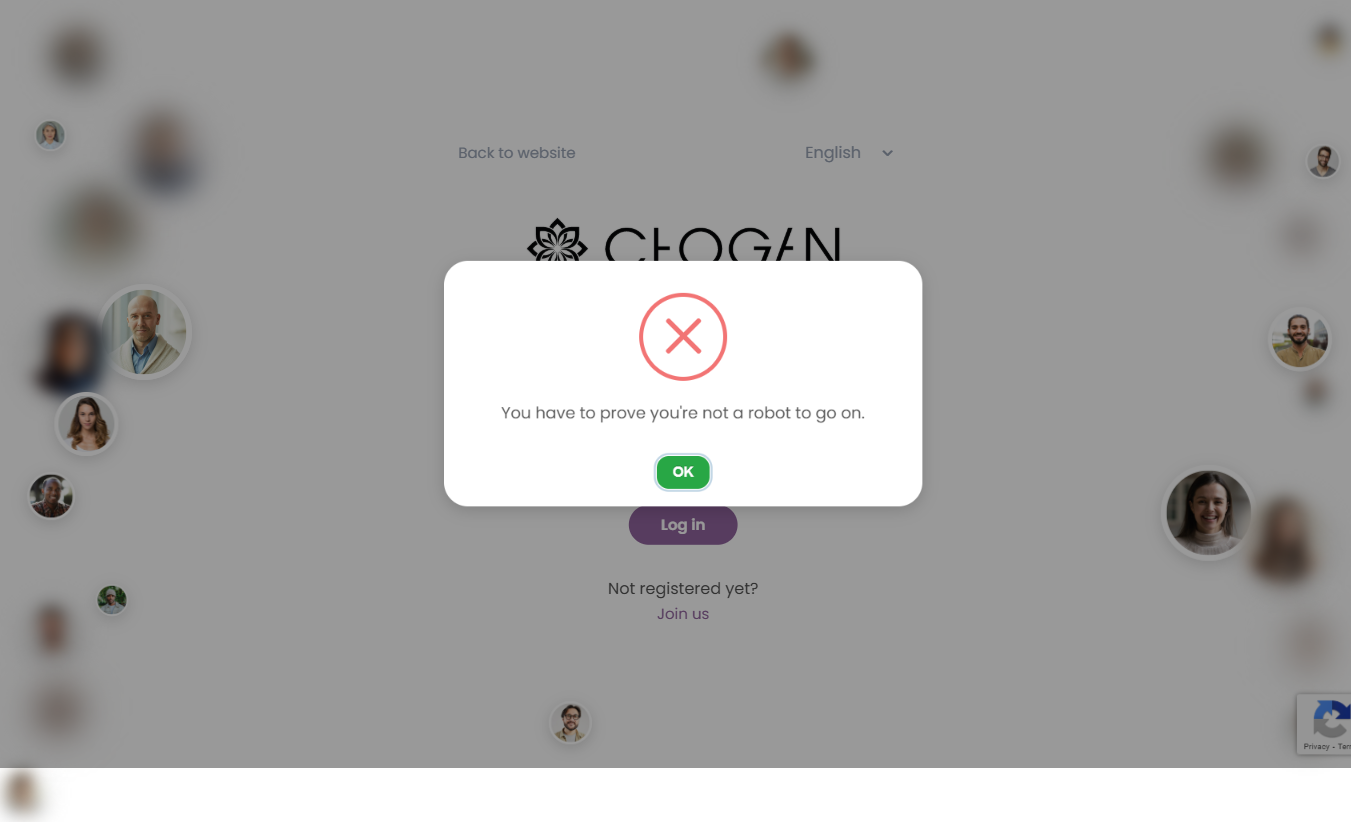
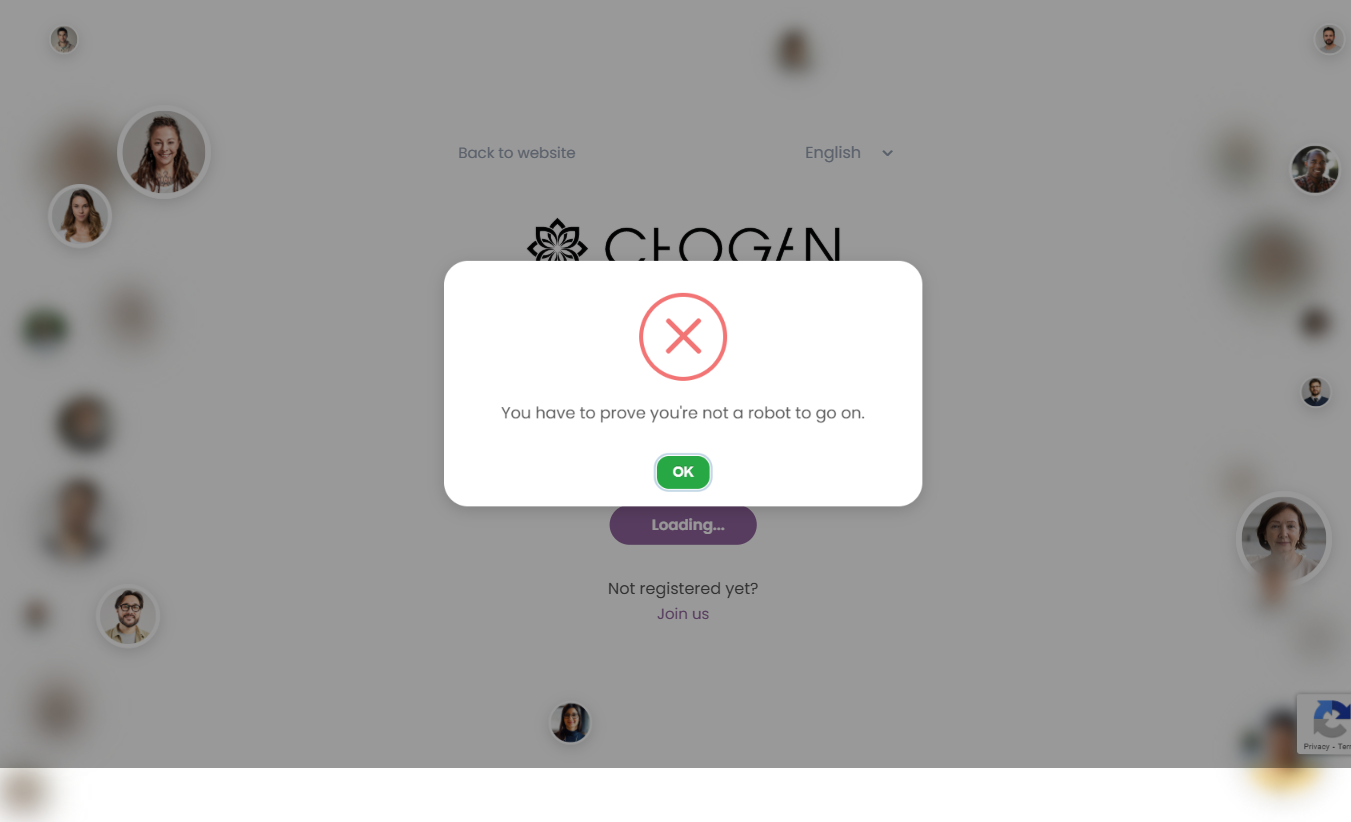
fix(chogan): Remplacement du clic par une attente de navigation robuste

diff --git a/backend/src/services/chogan-puppeteer-simple.ts b/backend/src/services/chogan-puppeteer-simple.ts
@@ -123,30 +123,59 @@ export class ChoganPuppeteerSimple {
     await this.page.waitForSelector('input[type="password"]', { timeout: 10000 });
     await this.page.type('input[type="password"]', credentials.password);
     
-    // CLIC ROBUSTE sur le bouton de connexion basé sur sa classe CSS
-    choganLogger.info('CHOGAN_PUPPETEER', 'Recherche du bouton de connexion avec la classe ".btn--primary"...');
-
-    const loginButtonSelector = '.btn--primary'; // Ce sélecteur est indépendant de la langue
+    // CLIC SIMPLE sur le bouton
+    choganLogger.info('CHOGAN_PUPPETEER', 'Clic sur bouton login...');
     
-    try {
-        await this.page.waitForSelector(loginButtonSelector, { timeout: 15000, visible: true });
-        const loginButton = await this.page.$(loginButtonSelector);
-
-        if (loginButton) {
-            choganLogger.info('CHOGAN_PUPPETEER', '✅ Bouton de connexion trouvé. Tentative de clic...');
-            await loginButton.click();
-            choganLogger.info('CHOGAN_PUPPETEER', '✅ Clic effectué sur le bouton.');
-        } else {
-            throw new Error('Bouton de connexion avec la classe .btn--primary introuvable après attente.');
+    await this.page.waitForSelector('#btn_login', { timeout: 10000 });
+    
+    // Vérifier que le bouton existe et est visible
+    const buttonInfo = await this.page.$eval('#btn_login', (btn) => ({
+      text: btn.textContent?.trim(),
+      visible: (btn as HTMLElement).offsetParent !== null,
+      tagName: btn.tagName,
+      href: (btn as HTMLAnchorElement).href
+    }));
+    
+    choganLogger.info('CHOGAN_PUPPETEER', 'Bouton détecté:', buttonInfo);
+    
+    // CLIC + DÉCLENCHER LE JAVASCRIPT MANUELLEMENT
+    choganLogger.info('CHOGAN_PUPPETEER', 'Clic + déclenchement JavaScript...');
+    
+    // 1. Clic normal d'abord
+    await this.page.click('#btn_login');
+    choganLogger.info('CHOGAN_PUPPETEER', '✅ Clic effectué');
+    
+    // 2. Déclencher tous les événements JavaScript manuellement
+    await this.page.evaluate(() => {
+      const button = document.querySelector('#btn_login') as HTMLElement;
+      if (button) {
+        // Déclencher tous les événements possibles
+        button.dispatchEvent(new MouseEvent('mousedown', { bubbles: true }));
+        button.dispatchEvent(new MouseEvent('mouseup', { bubbles: true }));
+        button.dispatchEvent(new MouseEvent('click', { bubbles: true }));
+        button.dispatchEvent(new Event('click', { bubbles: true }));
+        
+        // Si c'est un formulaire, essayer de le soumettre
+        const form = button.closest('form');
+        if (form) {
+          console.log('Formulaire trouvé, soumission...');
+          form.submit();
         }
-    } catch (e) {
-        choganLogger.error('CHOGAN_PUPPETEER', 'Erreur lors de la recherche ou du clic sur le bouton de connexion.', { error: e });
-        await this.page.screenshot({ path: 'screenshots/login-button-not-found-error.png', fullPage: true });
-        throw new Error(`Le bouton de connexion avec la classe ".btn--primary" n'a pas pu être trouvé ou cliqué.`);
-    }
-
-    // Attendre un peu pour que la page réagisse après le clic
-    choganLogger.info('CHOGAN_PUPPETEER', 'Attente de 5 secondes pour la navigation après le clic...');
+        
+        // Chercher et exécuter tout JavaScript associé
+        const onclickAttr = button.getAttribute('onclick');
+        if (onclickAttr) {
+          console.log('onclick trouvé:', onclickAttr);
+          eval(onclickAttr);
+        }
+        
+        console.log('Tous les événements déclenchés');
+      }
+    });
+    
+    choganLogger.info('CHOGAN_PUPPETEER', '🔥 Événements JavaScript déclenchés manuellement');
+    
+    // Attendre pour voir la réaction
     await new Promise(resolve => setTimeout(resolve, 5000));
     
     // Vérifier l'URL actuelle et analyser la page

diff --git a/backend/src/services/chogan-puppeteer.ts b/backend/src/services/chogan-puppeteer.ts
@@ -245,43 +245,40 @@ export class ChoganPuppeteerAutomation {
       // Chercher et remplir le formulaire de connexion
       await this.page.waitForSelector('input[type="email"], input[name*="email"]', { timeout: 10000 });
       
-      // Remplir l'email de manière plus humaine
       const emailField = await this.page.$('input[type="email"], input[name*="email"]');
       if (emailField) {
-        await emailField.click({ clickCount: 3 }); // Sélectionner tout le texte
-        await emailField.press('Backspace'); // Effacer
+        await emailField.click({ clickCount: 3 });
+        await emailField.press('Backspace');
         await this.page.type('input[type="email"], input[name*="email"]', credentials.email, { delay: 50 });
       }
 
       const passwordField = await this.page.$('input[type="password"]');
       if (passwordField) {
-        await passwordField.click({ clickCount: 3 }); // Sélectionner tout
-        await passwordField.press('Backspace'); // Effacer
+        await passwordField.click({ clickCount: 3 });
+        await passwordField.press('Backspace');
         await this.page.type('input[type="password"]', credentials.password, { delay: 50 });
       }
       
       await this.takeScreenshot('before-login-submit');
 
-      // NOUVELLE STRATÉGIE: Clic direct sur le bouton de connexion via sa classe
-      choganLogger.info('CHOGAN_PUPPETEER', 'Tentative de clic sur le bouton de connexion via classe .btn--primary...');
+      // STRATÉGIE ROBUSTE : Cliquer et attendre la navigation simultanément
+      choganLogger.info('CHOGAN_PUPPETEER', 'Clic sur le bouton de connexion et attente de la navigation...');
       
       const loginButtonSelector = '.btn--primary';
       await this.page.waitForSelector(loginButtonSelector, { visible: true, timeout: 10000 });
-      await this.page.click(loginButtonSelector);
-      
-      choganLogger.info('CHOGAN_PUPPETEER', '✅ Clic sur le bouton de connexion effectué. Attente de la réaction de la page (10 secondes)...');
-      
-      // Attendre un changement de page ou un timeout
-      await new Promise(resolve => setTimeout(resolve, 10000));
+
+      await Promise.all([
+        this.page.waitForNavigation({ waitUntil: 'networkidle2', timeout: 20000 }), // Attendre que la page se charge après le clic
+        this.page.click(loginButtonSelector) // Cliquer sur le bouton
+      ]);
       
       await this.takeScreenshot('after-login-attempt');
       
-      // Vérifier si la connexion a réussi
       const currentUrl = this.page.url();
       if (currentUrl.includes('login_page')) {
         choganLogger.error('CHOGAN_PUPPETEER', 'Échec de la connexion, toujours sur la page de login.', { url: currentUrl });
         await this.takeScreenshot('login-error');
-        throw new Error('Connexion échouée : la soumission du formulaire n\'a pas provoqué de changement de page.');
+        throw new Error("Connexion échouée : le clic sur le bouton n'a pas provoqué de changement de page.");
       }
       
       choganLogger.info('CHOGAN_PUPPETEER', 'Connexion réussie !', { url: currentUrl });
@@ -289,6 +286,7 @@ export class ChoganPuppeteerAutomation {
       
     } catch (error) {
       choganLogger.error('CHOGAN_PUPPETEER', 'Erreur lors de la connexion', { email: credentials.email }, error as Error);
+      await this.takeScreenshot('login-fatal-error');
       throw new Error(`Connexion revendeur échouée: ${error instanceof Error ? error.message : 'Erreur inconnue'}`);
     }
   }

diff --git a/backend/src/routes/api/chogan.ts b/backend/src/routes/api/chogan.ts
@@ -1,6 +1,7 @@
 import express from 'express';
 import { body, validationResult } from 'express-validator';
 import { ChoganAutomation, OrderRequest } from '../../services/chogan-automation';
+import { ChoganPuppeteerSimple } from '../../services/chogan-puppeteer-simple';
 import { ChoganPuppeteerAutomation } from '../../services/chogan-puppeteer';
 import { choganLogger, LogLevel } from '../../utils/logger';
 import { Request, Response } from 'express';
@@ -53,9 +54,9 @@ router.post('/submit-order', validateOrderData, async (req, res) => {
       produits: orderData.produits.length
     });
 
-    // Utiliser Puppeteer par défaut pour contourner Cloudflare
-    console.log('🚀 Utilisation du service Puppeteer...');
-    const puppeteerAutomation = new ChoganPuppeteerAutomation();
+    // Utiliser Puppeteer SIMPLE par défaut pour contourner Cloudflare
+    console.log('🚀 Utilisation du service Puppeteer SIMPLE...');
+    const puppeteerAutomation = new ChoganPuppeteerSimple();
 
     // Traiter la commande
     const result = await puppeteerAutomation.processOrder(orderData);
@@ -94,8 +95,8 @@ router.get('/health', async (req, res) => {
   try {
     console.log('🏥 Health check avec Puppeteer...');
     
-    // Utiliser Puppeteer au lieu d'Axios pour contourner Cloudflare
-    const puppeteerAutomation = new ChoganPuppeteerAutomation();
+    // Utiliser Puppeteer SIMPLE au lieu d'Axios pour contourner Cloudflare
+    const puppeteerAutomation = new ChoganPuppeteerSimple();
     const isConnected = await puppeteerAutomation.testConnection();
     
     res.json({

diff --git a/backend/src/scripts/list-familles.ts b/backend/src/scripts/list-familles.ts
@@ -1,0 +1,42 @@
+import payload from 'payload';
+import { config as dotenv } from 'dotenv';
+import path from 'path';
+import { FamillesOlfactive } from '../payload-types';
+
+dotenv({ path: path.resolve(__dirname, '../../.env') });
+
+const listFamilles = async (): Promise<void> => {
+  try {
+    await payload.init({
+      secret: process.env.PAYLOAD_SECRET || '',
+      mongoURL: process.env.MONGODB_URI || '',
+      express: undefined,
+      onInit: async () => {
+        console.log('Récupération de toutes les familles olfactives...');
+
+        const familles = await payload.find({
+          collection: 'familles-olfactives',
+          limit: 200,
+        });
+
+        console.log('--- Familles Olfactives en Base de Données ---');
+        if (familles.docs.length === 0) {
+          console.log('Aucune famille olfactive trouvée dans la collection.');
+        } else {
+          (familles.docs as FamillesOlfactive[]).forEach(famille => {
+            console.log(`- ID: ${famille.id}, Nom: ${famille.nom}`);
+          });
+        }
+        console.log('-------------------------------------------');
+        console.log(`Total: ${familles.totalDocs} familles trouvées.`);
+        
+        process.exit(0);
+      },
+    });
+  } catch (error) {
+    console.error('Une erreur est survenue lors de l\'initialisation de Payload ou de la récupération des familles:', error);
+    process.exit(1);
+  }
+};
+
+listFamilles(); 

diff --git a/backend/src/routes/index.ts b/backend/src/routes/index.ts
@@ -1,7 +1,7 @@
 import express from 'express';
 import { getParfums } from './api/parfums';
 import { generateConseil } from './api/openai';
-import { getRecommandations, testScoring, debugData } from './api/conseiller';
+import { getRecommandations, testScoring, debugData, listFamilles, inspectParfums } from './api/conseiller';
 import { Request, Response } from 'express';
 import { defaultLimiter, dataLimiter, sensitiveLimiter } from '../middleware/rateLimiter';
 import { validate, validatePagination, validateSearch } from '../middleware/inputValidation';
@@ -9,6 +9,7 @@ import { protectAgainstCsrf, generateCsrfToken } from '../middleware/csrfProtect
 import cookieParser from 'cookie-parser';
 import healthRouter from './api/health';
 import choganRouter from './api/chogan';
+import { choganProcess, choganTest } from './api/chogan';
 
 export const initRoutes = (app: express.Express): void => {
   // Route pour obtenir un token CSRF (sans protection CSRF car c'est pour obtenir le token)
@@ -58,4 +59,10 @@ export const initRoutes = (app: express.Express): void => {
     }
     return res.status(200).json({ status: 'ok', message: 'Vérification de sécurité réussie' });
   });
+
+  app.get('/api/conseiller/list-familles', listFamilles);
+  app.get('/api/conseiller/inspect-parfums', inspectParfums);
+
+  // Routes de l'API Chogan
+  app.post('/api/chogan/process', choganProcess);
 };

diff --git a/backend/src/routes/api/conseiller.ts b/backend/src/routes/api/conseiller.ts
@@ -107,12 +107,12 @@ export const inspectParfums = async (req: ExtendedRequest, res: Response) => {
       const data = {
         id: parfum.id,
         numeroParf: parfum.numeroParf,
-        genre: parfum.genre,
+          genre: parfum.genre,
         famillePrincipale_TEXTE: parfum.famillePrincipale,
         familleSecondaire_TEXTE: parfum.familleSecondaire,
         familleOlfactive_RELATION: familleOlfactiveRelation,
-        noteTete: parfum.noteTete,
-        noteCoeur: parfum.noteCoeur,
+          noteTete: parfum.noteTete,
+          noteCoeur: parfum.noteCoeur,
         noteFond: parfum.noteFond,
       };
       console.log(data);
@@ -122,7 +122,7 @@ export const inspectParfums = async (req: ExtendedRequest, res: Response) => {
 
     res.json({
       message: 'Un échantillon de 5 parfums a été affiché dans la console du backend.',
-      totalParfums: parfumsResult.totalDocs,
+        totalParfums: parfumsResult.totalDocs,
       data: analyseEchantillon,
     });
 

diff --git a/backend/src/lib/parfum-scoring.ts b/backend/src/lib/parfum-scoring.ts
@@ -44,7 +44,7 @@ export class ParfumScoringEngine {
 
     // 2. Calcul du score des familles olfactives (max 50 pts)
     details.scoreFamilles = this.calculerScoreFamilles(parfum, reponses.famillesOlfactives);
-
+    
     // Règle de la "Porte d'Entrée": si aucune famille ne correspond, le parfum est disqualifié.
     if (details.scoreFamilles === 0) {
       return { parfum, score: 0, details };
@@ -52,7 +52,7 @@ export class ParfumScoringEngine {
 
     // 3. Calcul du score des notes (max 50 pts, incluant pénalités)
     details.scoreNotes = this.calculerScoreNotes(parfum, reponses.notesAimees, reponses.notesDetestees);
-
+    
     const scoreTotal = details.scoreFamilles + details.scoreNotes;
     
     return {
